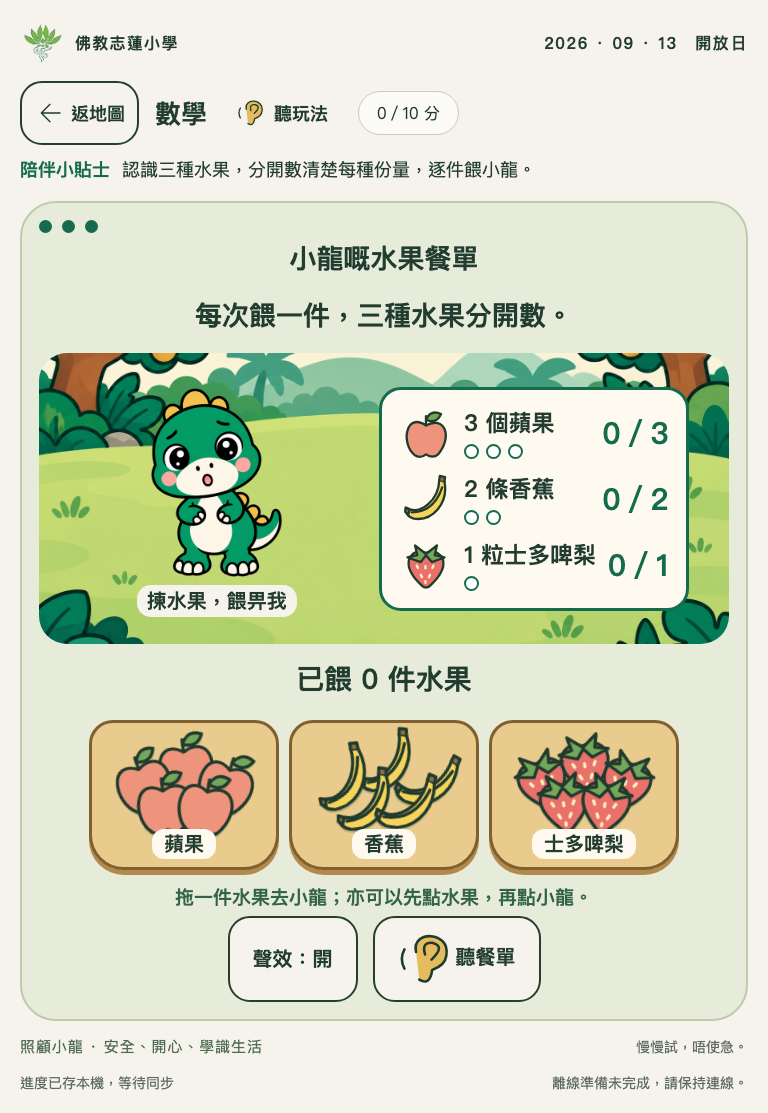
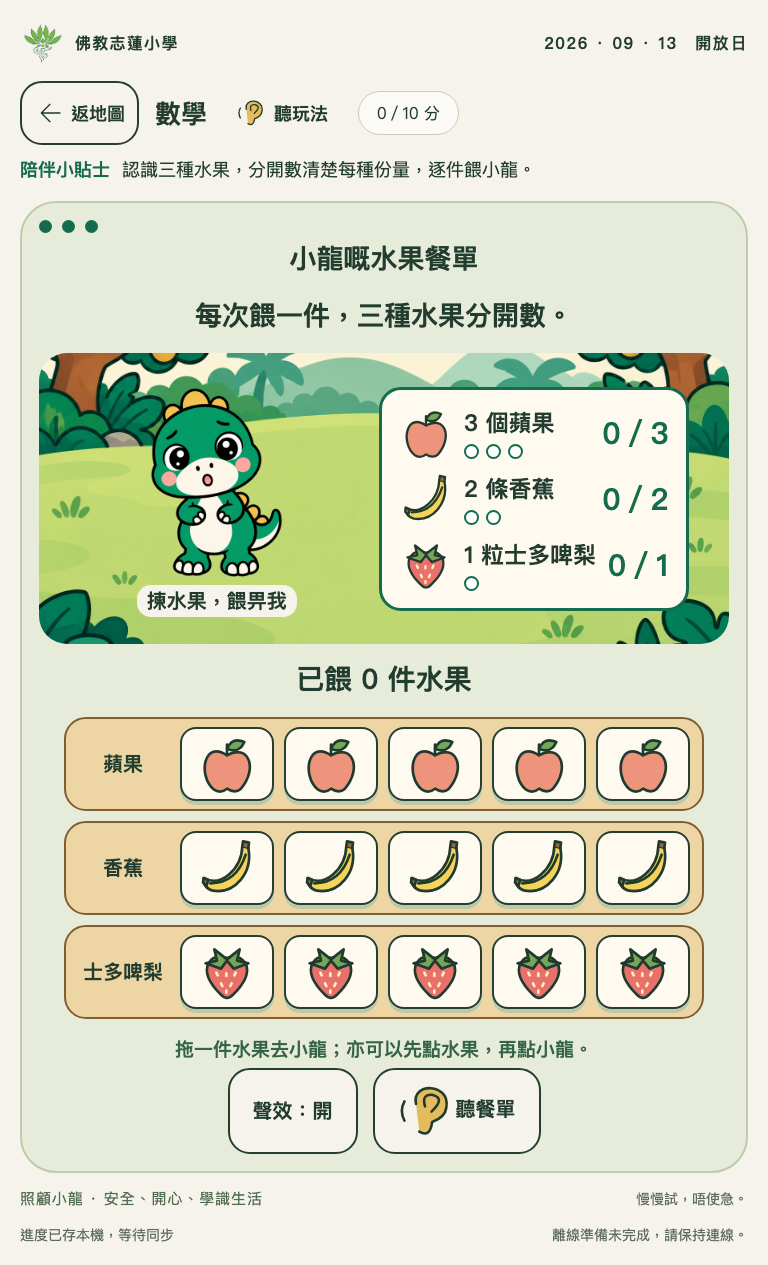
Lay out fifteen individually selectable fruit pieces

diff --git a/hub/modules/math.js b/hub/modules/math.js
@@ -5,7 +5,7 @@ import {playVoice,stopVoice} from '../../shared/voice.js';
 const fruits=[['apple','蘋果','個'],['banana','香蕉','條'],['strawberry','士多啤梨','粒']];
 const orders=[[1,1,1],[2,1,3],[3,2,1]];
 export function mountMath(root,state,save,finish){
- state.round??=0;state.recognized??=0;state.served??=[0,0,0];state.attempts??=0;
+ state.round??=0;state.recognized??=0;state.served??=[0,0,0];state.attempts??=0;state.usedPieces??=state.served.map(n=>Array.from({length:n},(_,i)=>i));
  let selected=null,drag=null,ghost=null,live=true,suppressClick=false,audio=null,effectTimer=null,soundOn=true;
  const feedback=text=>{root.querySelector('.feedback').textContent=text;};
  const recognizing=()=>state.recognized<3;
@@ -28,12 +28,12 @@ export function mountMath(root,state,save,finish){
  }
  function render(){
   clearTimeout(effectTimer);cancel();const intro=recognizing(),done=!intro&&complete(),order=orders[state.round];
-  root.innerHTML=`<div class="rounds" aria-label="${intro?'先認識三種水果':`第 ${state.round+1} 張餐單，共三張`}">${orders.map((_,i)=>`<span class="round-dot ${!intro&&i<=state.round?'done':''}"></span>`).join('')}</div><h2 class="game-instruction">${intro?'認識水果朋友':'小龍嘅水果餐單'}</h2><p class="game-instruction">${intro?`搵一搵：邊個係${fruits[state.recognized][1]}？`:'每次餵一件，三種水果分開數。'}</p><div class="fruit-meal"><button class="feeding-dino" data-dino="0" ${intro?'disabled':''} aria-label="餵小龍一件水果"><img class="character" src="img/${done?'chars/dino-baby-eat':'games/math/dino-hungry'}.png" alt="${done?'小龍食到啱啱好嘅水果':'等緊食水果嘅小龍'}"><span>${intro?'一齊認水果':done?'份量啱啱好！':'揀水果，餵畀我'}</span></button><div class="fruit-order" aria-label="小龍想食嘅水果份量">${intro?`<p>蘋果、香蕉、士多啤梨</p><p>已認識 ${state.recognized}／3 種</p>`:fruits.map(([id,name,unit],i)=>`<div class="fruit-order-row ${state.served[i]===order[i]?'fruit-enough':''}" data-order="${id}">${icon(id)}<div><strong>${order[i]} ${unit}${name}</strong><div class="fruit-dots" aria-hidden="true">${Array.from({length:order[i]},(_,n)=>`<span class="${n<state.served[i]?'filled':''}"></span>`).join('')}</div></div><span class="fruit-tally" aria-label="${name}已餵 ${state.served[i]}，需要 ${order[i]}">${state.served[i]}／${order[i]}</span></div>`).join('')}</div></div><p class="feeding-count" aria-live="polite">${intro?'先認識，再數數':done?'三種水果都夠數啦！':`已餵 ${state.served.reduce((a,b)=>a+b,0)} 件水果`}</p><div class="choices feeding-food fruit-food" aria-label="三種水果，每次取一件">${fruits.map(([id,name],i)=>`<button class="choice" data-food="${id}" aria-label="${name}" ${done?'disabled':''}><span class="fruit-pile" aria-hidden="true">${Array.from({length:intro?5:5-state.served[i]},(_,n)=>icon(id,`pile-piece piece-${n}`)).join('')}</span><span class="fruit-basket-label">${name}</span></button>`).join('')}</div><p class="feedback" role="status">${intro?'聽一聽，點選啱嘅水果。':done?'數清楚每種份量，小龍食得開心又舒服！':'拖一件水果去小龍；亦可以先點水果，再點小龍。'}</p><div class="actions"><button id="fruit-sound" aria-pressed="${soundOn}">${soundOn?'聲效：開':'聲效：關'}</button><button id="fruit-listen">${icon('ear')}聽${intro?'水果名':'餐單'}</button>${!done&&hintLevel(state.attempts)==='guided'?'<button id="feeding-help">一齊睇提示</button>':''}${done?`<button class="primary" id="feeding-next">${state.round===2?'完成照顧任務':'下一張餐單'}</button>`:''}</div>`;
+  root.innerHTML=`<div class="rounds" aria-label="${intro?'先認識三種水果':`第 ${state.round+1} 張餐單，共三張`}">${orders.map((_,i)=>`<span class="round-dot ${!intro&&i<=state.round?'done':''}"></span>`).join('')}</div><h2 class="game-instruction">${intro?'認識水果朋友':'小龍嘅水果餐單'}</h2><p class="game-instruction">${intro?`搵一搵：邊個係${fruits[state.recognized][1]}？`:'每次餵一件，三種水果分開數。'}</p><div class="fruit-meal"><button class="feeding-dino" data-dino="0" ${intro?'disabled':''} aria-label="餵小龍一件水果"><img class="character" src="img/${done?'chars/dino-baby-eat':'games/math/dino-hungry'}.png" alt="${done?'小龍食到啱啱好嘅水果':'等緊食水果嘅小龍'}"><span>${intro?'一齊認水果':done?'份量啱啱好！':'揀水果，餵畀我'}</span></button><div class="fruit-order" aria-label="小龍想食嘅水果份量">${intro?`<p>蘋果、香蕉、士多啤梨</p><p>已認識 ${state.recognized}／3 種</p>`:fruits.map(([id,name,unit],i)=>`<div class="fruit-order-row ${state.served[i]===order[i]?'fruit-enough':''}" data-order="${id}">${icon(id)}<div><strong>${order[i]} ${unit}${name}</strong><div class="fruit-dots" aria-hidden="true">${Array.from({length:order[i]},(_,n)=>`<span class="${n<state.served[i]?'filled':''}"></span>`).join('')}</div></div><span class="fruit-tally" aria-label="${name}已餵 ${state.served[i]}，需要 ${order[i]}">${state.served[i]}／${order[i]}</span></div>`).join('')}</div></div><p class="feeding-count" aria-live="polite">${intro?'先認識，再數數':done?'三種水果都夠數啦！':`已餵 ${state.served.reduce((a,b)=>a+b,0)} 件水果`}</p><div class="fruit-trays" aria-label="五個蘋果、五條香蕉、五粒士多啤梨">${fruits.map(([id,name],i)=>`<div class="fruit-tray" role="group" aria-label="${name}"><strong>${name}</strong><div class="fruit-pieces">${Array.from({length:5},(_,n)=>`<button class="choice fruit-piece ${!intro&&state.usedPieces[i].includes(n)?'fruit-used':''}" data-food="${id}" data-piece="${n}" aria-label="第 ${n+1} 件${name}${!intro&&state.usedPieces[i].includes(n)?'已餵':''}" ${done||!intro&&state.usedPieces[i].includes(n)?'disabled':''}>${icon(id)}</button>`).join('')}</div></div>`).join('')}</div><p class="feedback" role="status">${intro?'聽一聽，點選啱嘅水果。':done?'數清楚每種份量，小龍食得開心又舒服！':'拖一件水果去小龍；亦可以先點水果，再點小龍。'}</p><div class="actions"><button id="fruit-sound" aria-pressed="${soundOn}">${soundOn?'聲效：開':'聲效：關'}</button><button id="fruit-listen">${icon('ear')}聽${intro?'水果名':'餐單'}</button>${!done&&hintLevel(state.attempts)==='guided'?'<button id="feeding-help">一齊睇提示</button>':''}${done?`<button class="primary" id="feeding-next">${state.round===2?'完成照顧任務':'下一張餐單'}</button>`:''}</div>`;
   root.querySelector('#fruit-listen').onclick=listen;
   root.querySelector('#fruit-sound').onclick=()=>{soundOn=!soundOn;if(!soundOn){audio?.close().catch(()=>{});audio=null;}render();};
   for(const button of root.querySelectorAll('[data-food]')){
    const index=fruits.findIndex(f=>f[0]===button.dataset.food);
-   const choose=()=>{if(button.disabled)return;selected=index;root.querySelectorAll('.chosen').forEach(n=>n.classList.remove('chosen'));button.classList.add('chosen');};
+   const choose=()=>{if(button.disabled)return;selected={index,piece:Number(button.dataset.piece)};root.querySelectorAll('.chosen').forEach(n=>n.classList.remove('chosen'));button.classList.add('chosen');};
    button.onclick=()=>{if(suppressClick){suppressClick=false;return;}if(intro){recognize(index);return;}choose();};
    button.onpointerdown=e=>{if(intro||e.button!==0||button.disabled||drag)return;suppressClick=false;choose();drag={id:e.pointerId,x:e.clientX,y:e.clientY,moved:false};button.setPointerCapture(e.pointerId);};
    button.onpointermove=e=>{if(!drag||drag.id!==e.pointerId)return;if(Math.hypot(e.clientX-drag.x,e.clientY-drag.y)>9){drag.moved=true;if(!ghost){ghost=document.createElement('div');ghost.className='drag-ghost';ghost.innerHTML=icon(fruits[index][0]);document.body.append(ghost);}ghost.style.left=e.clientX+'px';ghost.style.top=e.clientY+'px';}};
@@ -41,16 +41,17 @@ export function mountMath(root,state,save,finish){
    button.onpointercancel=()=>{suppressClick=true;cancel();};
   }
   root.querySelector('[data-dino]').onclick=feed;
-  root.querySelector('#feeding-help')?.addEventListener('click',()=>{const i=intro?state.recognized:order.findIndex((n,i)=>state.served[i]<n);root.querySelector(`[data-food="${fruits[i][0]}"]`).classList.add('feeding-hint');feedback(intro?`發光嘅係${fruits[i][1]}。`:`${fruits[i][1]}仲欠 ${order[i]-state.served[i]} ${fruits[i][2]}，逐件餵。`);});
-  root.querySelector('#feeding-next')?.addEventListener('click',()=>{if(!live)return;stopVoice();if(state.round===2){live=false;finish();return;}state.round++;state.served=[0,0,0];state.attempts=0;save();render();listen();});
+  root.querySelector('#feeding-help')?.addEventListener('click',()=>{const i=intro?state.recognized:order.findIndex((n,i)=>state.served[i]<n);root.querySelector(`[data-food="${fruits[i][0]}"]:not(:disabled)`).classList.add('feeding-hint');feedback(intro?`發光嘅係${fruits[i][1]}。`:`${fruits[i][1]}仲欠 ${order[i]-state.served[i]} ${fruits[i][2]}，逐件餵。`);});
+  root.querySelector('#feeding-next')?.addEventListener('click',()=>{if(!live)return;stopVoice();if(state.round===2){live=false;finish();return;}state.round++;state.served=[0,0,0];state.usedPieces=[[],[],[]];state.attempts=0;save();render();listen();});
  }
  function recognize(index){if(!live)return;if(index!==state.recognized){state.attempts++;save();render();feedback('再聽一聽，搵同名嘅水果。');return;}state.recognized++;state.attempts=0;save();render();listen();}
  function feed(){
   if(!live||recognizing()||complete())return;
   if(selected===null){feedback('先揀一件水果，再點小龍。');return;}
-  const i=selected,[,name,unit]=fruits[i];
+  const {index:i,piece}=selected,[,name,unit]=fruits[i];
+  if(state.usedPieces[i].includes(piece))return;
   if(state.served[i]>=orders[state.round][i]){state.attempts++;save();render();sound('enough');feedback(`${name}已經夠數啦，睇吓另一種仲欠幾多。`);return;}
-  state.served[i]++;save();render();sound(complete()?'full':'bite');munch(fruits[i][0]);feedback(complete()?'三種水果都啱啱好，小龍食得開心又舒服！':`${name}：${state.served[i]} ${unit}，要 ${orders[state.round][i]} ${unit}。`);
+  state.usedPieces[i].push(piece);state.served[i]++;save();render();sound(complete()?'full':'bite');munch(fruits[i][0]);feedback(complete()?'三種水果都啱啱好，小龍食得開心又舒服！':`${name}：${state.served[i]} ${unit}，要 ${orders[state.round][i]} ${unit}。`);
  }
  const background=()=>{if(document.hidden){cancel();audio?.close().catch(()=>{});audio=null;}};
  document.addEventListener('visibilitychange',background);render();

diff --git a/sw.js b/sw.js
@@ -1,5 +1,5 @@
 // Generated precache manifest. Rebuild whenever local assets change.
-const CACHE='dino-island-6675f091bb8d';
+const CACHE='dino-island-655c2dad1f2f';
 const BASE=new URL('./',self.location.href);
 const ASSETS=["board/board.css","board/board.js","board/img/board-skin.png","board/index.html","hub/app.js","hub/audio/en/actions/freeze.wav","hub/audio/en/actions/hands.wav","hub/audio/en/actions/jump.wav","hub/audio/en/actions/left.wav","hub/audio/en/actions/right.wav","hub/audio/en/actions/sit.wav","hub/audio/en/actions/stand.wav","hub/audio/yue/actions/freeze.wav","hub/audio/yue/actions/hands.wav","hub/audio/yue/actions/left.wav","hub/audio/yue/actions/right.wav","hub/audio/yue/actions/sit.wav","hub/audio/yue/characters/fire.wav","hub/audio/yue/characters/moon.wav","hub/audio/yue/characters/mountain.wav","hub/audio/yue/characters/sun.wav","hub/audio/yue/characters/water.wav","hub/audio/yue/characters/wood.wav","hub/audio/yue/common/complete.wav","hub/audio/yue/common/hint.wav","hub/audio/yue/common/retry.wav","hub/audio/yue/common/welcome.wav","hub/audio/yue/intro/art.wav","hub/audio/yue/intro/chinese.wav","hub/audio/yue/intro/computing.wav","hub/audio/yue/intro/english.wav","hub/audio/yue/intro/general.wav","hub/audio/yue/intro/humanities.wav","hub/audio/yue/intro/mandarin.wav","hub/audio/yue/intro/math.wav","hub/audio/yue/intro/music.wav","hub/audio/yue/intro/pe.wav","hub/audio/yue/intro/science.wav","hub/audio/yue/math/apple.wav","hub/audio/yue/math/banana.wav","hub/audio/yue/math/order-0.wav","hub/audio/yue/math/order-1.wav","hub/audio/yue/math/order-2.wav","hub/audio/yue/math/strawberry.wav","hub/audio/zh-CN/greetings/goodbye.wav","hub/audio/zh-CN/greetings/hello.wav","hub/audio/zh-CN/greetings/morning.wav","hub/audio/zh-CN/greetings/please.wav","hub/audio/zh-CN/greetings/thanks.wav","hub/audio/zh-CN/greetings/welcome.wav","hub/certificate.js","hub/games.js","hub/img/chars/dino-baby-eat.png","hub/img/chars/dino-baby-sleep.png","hub/img/chars/dino-baby.png","hub/img/chars/landmark-hatch.png","hub/img/chars/landmark-longneck.png","hub/img/chars/landmark-triceratops.png","hub/img/chars/xiaolian-clap.png","hub/img/chars/xiaolian-color.png","hub/img/chars/xiaolian-highfive.png","hub/img/chars/xiaolian-point.png","hub/img/chars/xiaolian-welcome.png","hub/img/chars/xiaolian-write.png","hub/img/chars/xiaozhi-highfive.png","hub/img/chars/xiaozhi-jump.png","hub/img/chars/xiaozhi-run.png","hub/img/chars/xiaozhi-sit.png","hub/img/chars/xiaozhi-step.png","hub/img/chars/xiaozhi-stretch.png","hub/img/chars/xiaozhi-tablet.png","hub/img/chars/xiaozhi-welcome.png","hub/img/games/art/dino-hatching.png","hub/img/games/art/egg-studio.png","hub/img/games/art/xiaozhi-surprised.png","hub/img/games/chinese/dino-drinking.png","hub/img/games/chinese/dino-walking.png","hub/img/games/chinese/mountain.png","hub/img/games/chinese/river.png","hub/img/games/chinese/volcano.png","hub/img/games/computing/coding-garden.png","hub/img/games/computing/dino-robot.png","hub/img/games/english/dino-celebrate.png","hub/img/games/english/dino-hands-up.png","hub/img/games/english/dino-jump.png","hub/img/games/english/dino-left.png","hub/img/games/english/dino-right.png","hub/img/games/english/dino-squat.png","hub/img/games/general/bedtime.png","hub/img/games/general/daytime.png","hub/img/games/general/dino-playing.png","hub/img/games/general/dino-waking.png","hub/img/games/general/dino-washing.png","hub/img/games/general/morning.png","hub/img/games/humanities/river-centre.png","hub/img/games/humanities/safe-forest.png","hub/img/games/humanities/volcano-edge.png","hub/img/games/humanities/xiaolian-explorer.png","hub/img/games/humanities/xiaozhi-explorer.png","hub/img/games/mandarin/dino-goodbye.png","hub/img/games/mandarin/dino-greeting.png","hub/img/games/mandarin/dino-listening.png","hub/img/games/mandarin/dino-thanks.png","hub/img/games/mandarin/village.png","hub/img/games/math/dino-hungry.png","hub/img/games/math/feeding-garden.png","hub/img/games/math/friend-longneck.png","hub/img/games/math/friend-triceratops.png","hub/img/games/music/dino-drum.png","hub/img/games/music/music-stage.png","hub/img/games/music/xiaolian-bell.png","hub/img/games/music/xiaozhi-percussion.png","hub/img/games/pe/dino-coach.png","hub/img/games/pe/forest-arena.png","hub/img/games/pe/forest-visitor.png","hub/img/games/science/excavation.png","hub/img/games/science/xiaolian-scientist.png","hub/img/games/science/xiaozhi-scientist.png","hub/img/map/island-path.png","hub/img/ui/cert-frame.png","hub/index.html","hub/modules/art.js","hub/modules/chinese-scenes.js","hub/modules/computing.js","hub/modules/fossil-art.js","hub/modules/general.js","hub/modules/humanities.js","hub/modules/mandarin.js","hub/modules/math.js","hub/modules/motion.js","hub/modules/music.js","hub/modules/pe-scene.js","hub/modules/science.js","hub/park-guides.js","index.html","setup/audio-review.html","setup/index.html","shared/certificate-link.js","shared/config.js","shared/core.js","shared/game-clock-gate.js","shared/game-state.js","shared/icons.js","shared/img/school-logo.png","shared/models/pose-landmarker-lite-v1.task","shared/network.js","shared/offline.js","shared/pose-actions.js","shared/pose-camera.js","shared/qrcode.js","shared/recorder.js","shared/sequence.js","shared/storage.js","shared/style.css","shared/vendor/mediapipe/vision-bundle.js","shared/vendor/mediapipe/wasm/vision_wasm_internal.js","shared/vendor/mediapipe/wasm/vision_wasm_internal.wasm","shared/vendor/mediapipe/wasm/vision_wasm_nosimd_internal.js","shared/vendor/mediapipe/wasm/vision_wasm_nosimd_internal.wasm","shared/voice.js","hub/","board/","setup/"].map(p=>new URL(p,BASE).href);
 self.addEventListener('install',e=>e.waitUntil(caches.open(CACHE).then(c=>c.addAll(ASSETS))));

diff --git a/shared/style.css b/shared/style.css
@@ -138,4 +138,6 @@
 @media(max-width:600px){.expedition-camp{display:grid;grid-template-columns:repeat(2,minmax(0,1fr));justify-items:center}.expedition-camp>.character{grid-row:1;width:120px;height:140px}.expedition-camp>.expedition-guide{width:140px;height:140px}.expedition-improvements{grid-row:2;grid-column:1/-1}}
 .fossil-briefing{display:flex;align-items:center;justify-content:center;gap:12px;max-width:780px;margin:0 auto 12px}.fossil-briefing>.fossil-guide{width:140px;height:140px;flex-shrink:0}.fossil-briefing>.game-instruction{margin:0;text-align:left}
 @media(max-width:600px){.fossil-briefing{gap:4px}.fossil-briefing>.fossil-guide{width:96px;height:110px}.fossil-briefing>.game-instruction{font-size:20px}}
-.fruit-food .choice{width:190px;height:150px;padding:4px 8px 8px;background:#e9cc8d;border:3px solid #805f31;border-radius:24px 24px 35px 35px;box-shadow:0 5px 0 #b48a4c;overflow:visible}.fruit-pile{display:block;position:relative;width:165px;height:106px;pointer-events:none}.fruit-food .fruit-pile .icon{position:absolute;width:70px;height:70px;filter:drop-shadow(0 2px 0 #203b2e33)}.fruit-pile .piece-0{left:48px;top:0;transform:rotate(-8deg)}.fruit-pile .piece-1{left:5px;top:17px;transform:rotate(-19deg)}.fruit-pile .piece-2{right:5px;top:18px;transform:rotate(17deg)}.fruit-pile .piece-3{left:27px;top:39px;transform:rotate(-7deg)}.fruit-pile .piece-4{right:26px;top:40px;transform:rotate(9deg)}.fruit-basket-label{background:#fffaf0;border-radius:12px;padding:1px 12px;position:relative}.fruit-meal .feeding-dino{position:relative}.fruit-munch .character{animation:fruit-chomp .45s ease}.fruit-bite{position:absolute;left:50%;top:32%;pointer-events:none;animation:fruit-bite .45s ease-in forwards}.fruit-bite .icon{width:65px;height:65px}@keyframes fruit-chomp{25%{transform:rotate(-5deg) scale(1.06)}65%{transform:rotate(4deg) scale(1.03)}}@keyframes fruit-bite{from{opacity:1;transform:translate(-50%,70px) scale(1)}to{opacity:0;transform:translate(-50%,-5px) scale(.2)}}@media(max-width:600px){.fruit-food{gap:7px}.fruit-food .choice{width:100px;min-width:90px;height:120px;padding:4px}.fruit-pile{width:85px;height:78px}.fruit-food .fruit-pile .icon{width:46px;height:46px}.fruit-pile .piece-0{left:20px;top:0}.fruit-pile .piece-1{left:0;top:15px}.fruit-pile .piece-2{right:0;top:16px}.fruit-pile .piece-3{left:9px;top:31px}.fruit-pile .piece-4{right:8px;top:32px}.fruit-basket-label{padding:1px 4px;font-size:16px}}
+.fruit-meal .feeding-dino{position:relative}.fruit-munch .character{animation:fruit-chomp .45s ease}.fruit-bite{position:absolute;left:50%;top:32%;pointer-events:none;animation:fruit-bite .45s ease-in forwards}.fruit-bite .icon{width:65px;height:65px}@keyframes fruit-chomp{25%{transform:rotate(-5deg) scale(1.06)}65%{transform:rotate(4deg) scale(1.03)}}@keyframes fruit-bite{from{opacity:1;transform:translate(-50%,70px) scale(1)}to{opacity:0;transform:translate(-50%,-5px) scale(.2)}}
+.fruit-trays{display:flex;flex-direction:column;gap:10px;max-width:640px;margin:15px auto}.fruit-tray{display:flex;align-items:center;gap:12px;padding:8px 12px;background:#eed6a4;border:2px solid #805f31;border-radius:22px}.fruit-tray>strong{width:90px;text-align:center;font-size:20px;flex-shrink:0}.fruit-pieces{display:grid;grid-template-columns:repeat(5,minmax(0,1fr));gap:10px;flex:1}.fruit-pieces .fruit-piece{width:100%;height:74px;min-width:64px;padding:4px;border-radius:16px}.fruit-pieces .icon{width:60px;height:60px}.fruit-pieces .fruit-used{visibility:hidden;pointer-events:none}@media(max-width:600px){.fruit-tray{flex-direction:column;gap:4px;padding:8px 4px}.fruit-tray>strong{width:auto;font-size:17px}.fruit-pieces{width:100%;gap:3px}.fruit-pieces .fruit-piece{min-width:0;height:64px;padding:2px}.fruit-pieces .icon{width:100%;height:56px}}
+.fruit-meal{position:sticky;top:8px;z-index:2}

diff --git a/docs/MATH-FRUIT-UPDATE.md b/docs/MATH-FRUIT-UPDATE.md
@@ -1,5 +1,7 @@
 # 數學：三種水果餐單
 
+最新排列：按用戶要求改成三行，每行五件獨立水果按鈕，互不重疊。選中及餵出的水果以獨立位置記錄，成功後保留空位；錯誤或取消不消耗，下一張補滿，重開亦保留相同空位。小龍區捲動時固定在可見位置，方便由下方拖上去。保留聲效與食水果動作。最新截圖：`screenshots/math-individual-fruits.png`。
+
 按 2026-09-10 用戶要求，改為認識蘋果、香蕉、士多啤梨，再數清楚每種水果份量。只用一隻被照顧的小龍。
 
 先逐種點選辨認水果；錯選可再試。之後三張餐單分別要求（蘋果／香蕉／士多啤梨）：1／1／1、2／1／3、3／2／1。可自由決定餵食次序，每次拖一件，亦可先點水果再點小龍。每種有獨立數字及圓點，夠數後再餵不計入，不扣分。三種都剛好才可下一張。
